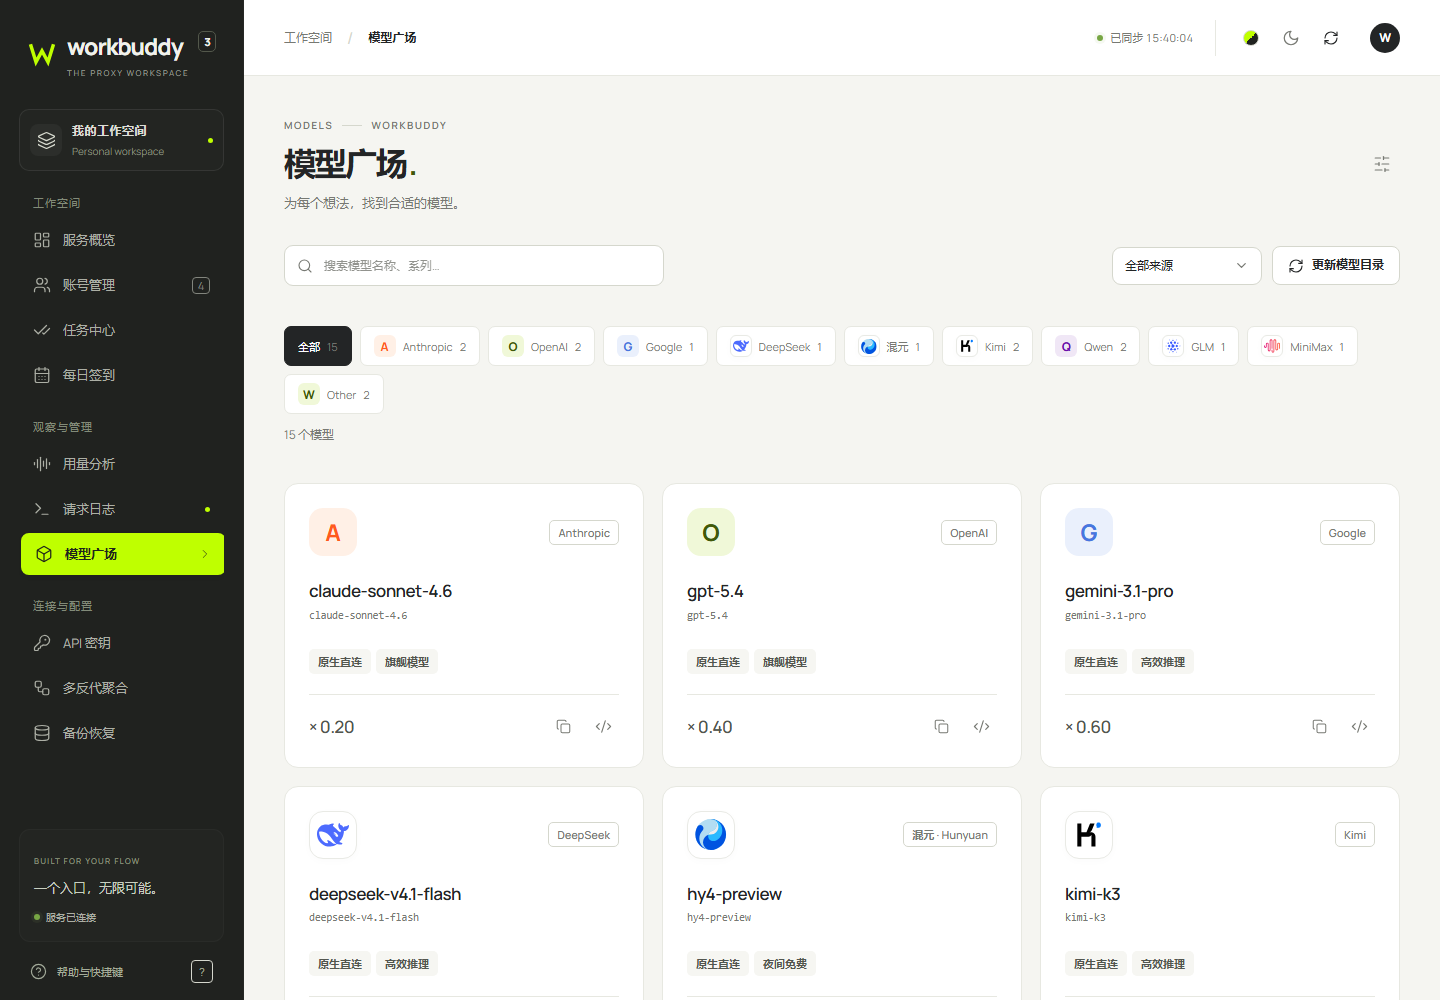
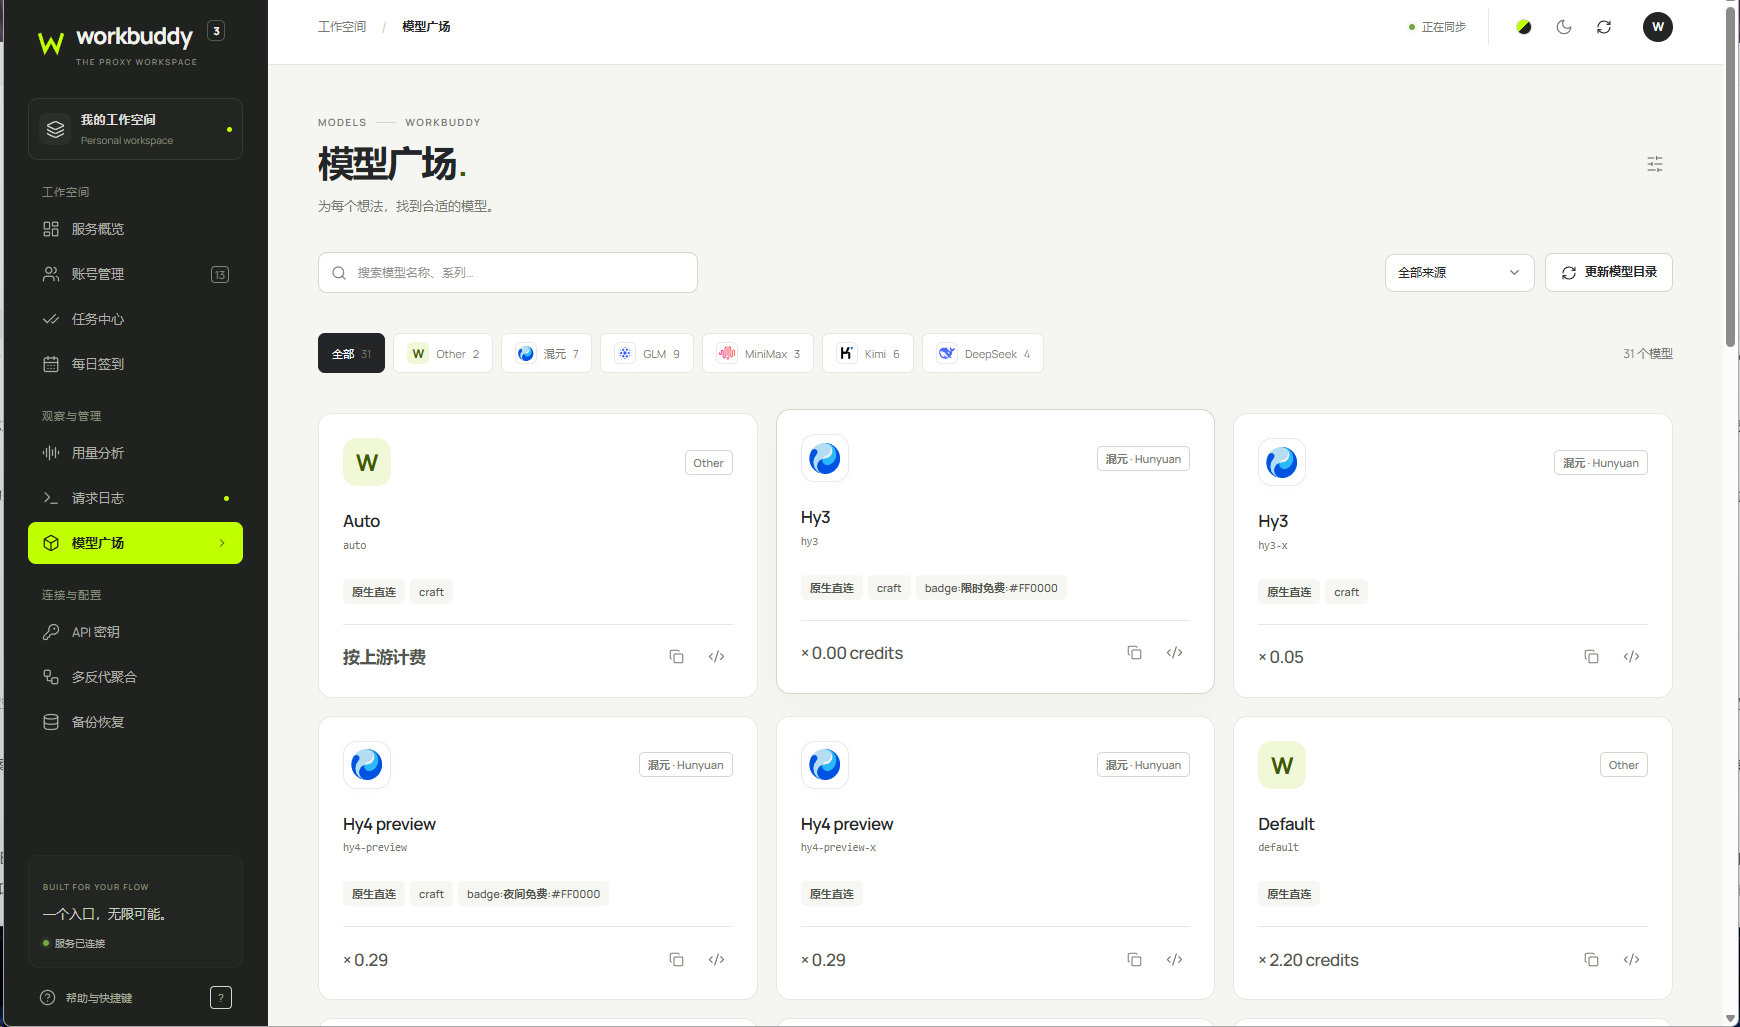
docs: replace synthetic model catalog with actual screenshot

diff --git a/docs/PROJECT.md b/docs/PROJECT.md
@@ -43,6 +43,8 @@ flowchart LR
 
 ![模型广场](images/models.png)
 
+上图为项目维护者提供的实际模型广场截图，展示当时返回的混元、GLM、MiniMax、Kimi、DeepSeek 等系列分类。模型数量、具体版本、倍率与活动标签随上游和账号状态变化，请以自己管理台的实时目录为准。
+
 用量分析支持日期、模型及账号维度，区分输入、输出和缓存，并可查看请求数量和积分统计。不同模型使用高反差曲线，便于比较。
 
 ![用量分析](images/usage.png)
@@ -94,9 +96,9 @@ flowchart LR
 
 ## 截图来源与复现
 
-本页的服务概览、配色、模型、用量与地图六张截图于 2026-09-28 由仓库构建产物和隔离 fixture 生成，使用合成账号与用量，源站地址替换为文档示例地址。其中的模型、日期、地理坐标与价格均为演示，不是生产运行记录。
+本页的服务概览、配色、用量与地图五张截图于 2026-09-28 由仓库构建产物和隔离 fixture 生成，使用合成账号与用量，源站地址替换为文档示例地址。其中的请求模型、日期与地理坐标均为演示，不是生产运行记录。
 
-任务中心图片 `tasks-center.png` 为项目维护者另行提供的实际界面截图，不由以下脚本生成。它反映截图时的任务状态，不保证其他账号拥有相同任务或奖励。
+模型广场图片 `models.png` 和任务中心图片 `tasks-center.png` 为项目维护者提供的实际界面截图，不由以下脚本生成或覆盖。它们反映截图时的模型目录与任务状态，不保证其他账号拥有相同模型、任务或奖励。
 
 在仓库根目录运行：
 

diff --git a/frontend/README.md b/frontend/README.md
@@ -55,4 +55,4 @@ npm run fixture
 
 ## 文档截图
 
-在仓库根目录运行 `node frontend/scripts/capture-docs.mjs`，使用隔离演示数据生成 `docs/images/`。脚本使用 Playwright Chromium；首次可在 frontend 目录执行 `npx playwright install chromium`。常规 E2E 配置使用系统 Chrome。
+在仓库根目录运行 `node frontend/scripts/capture-docs.mjs`，使用隔离演示数据生成 `docs/images/` 中的五张预览图。模型广场 `models.png` 和任务中心 `tasks-center.png` 使用维护者提供的实际截图，脚本不会覆盖。脚本使用 Playwright Chromium；首次可在 frontend 目录执行 `npx playwright install chromium`。常规 E2E 配置使用系统 Chrome。

diff --git a/README.md b/README.md
@@ -12,7 +12,7 @@ Node.js 后端 · Vue 3 管理台 · OpenAI 兼容接口 · SSE 流式输出
 
 ![WorkBuddy2API 日间服务概览](docs/images/overview-light.png)
 
-> 服务概览、模型、用量与地图图片由当前管理台配合隔离演示数据生成；任务中心为项目维护者提供的实际界面截图。图片仅用于展示，不代表模型可用性、任务奖励或价格承诺。
+> 模型广场与任务中心为项目维护者提供的实际界面截图；服务概览、用量与地图图片使用隔离演示数据生成。模型目录和任务状态以实际账号与上游返回为准，截图不构成固定可用性、奖励或价格承诺。
 
 ## 项目介绍
 
